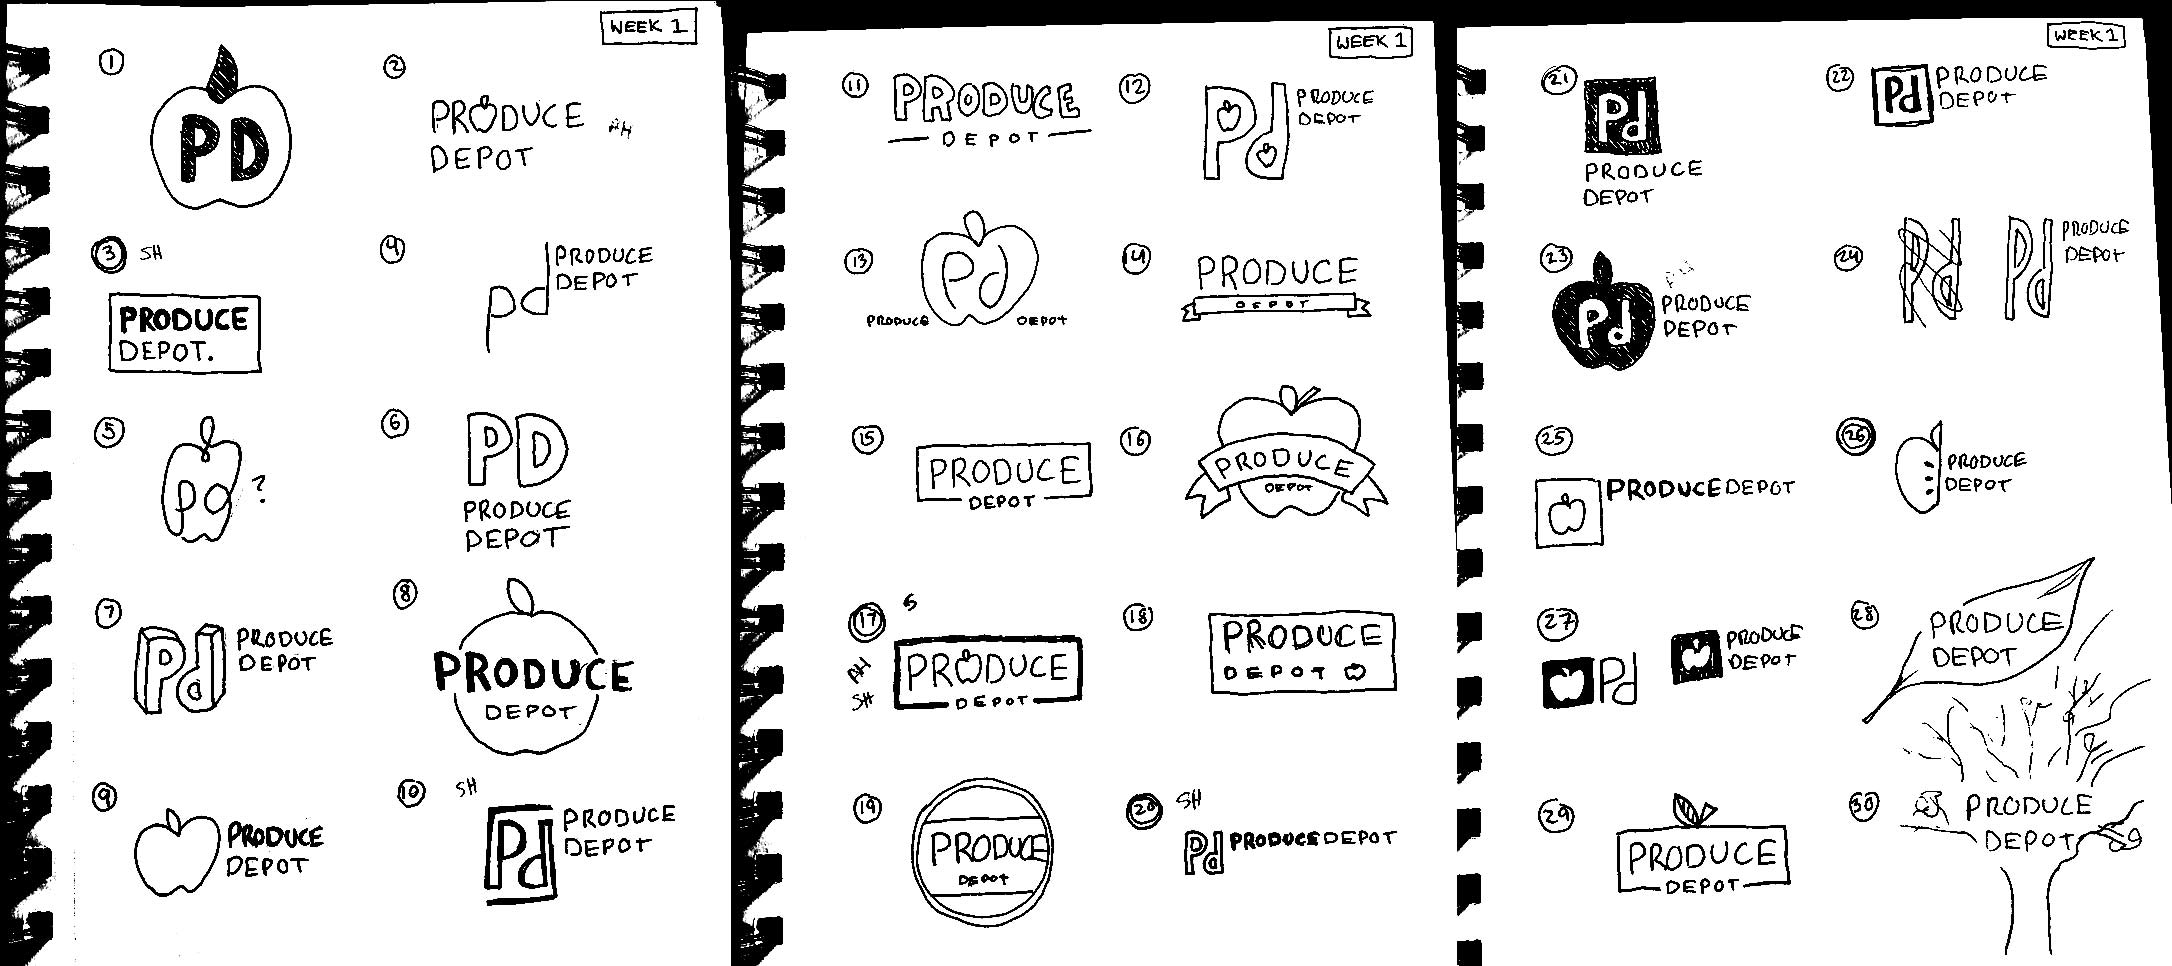
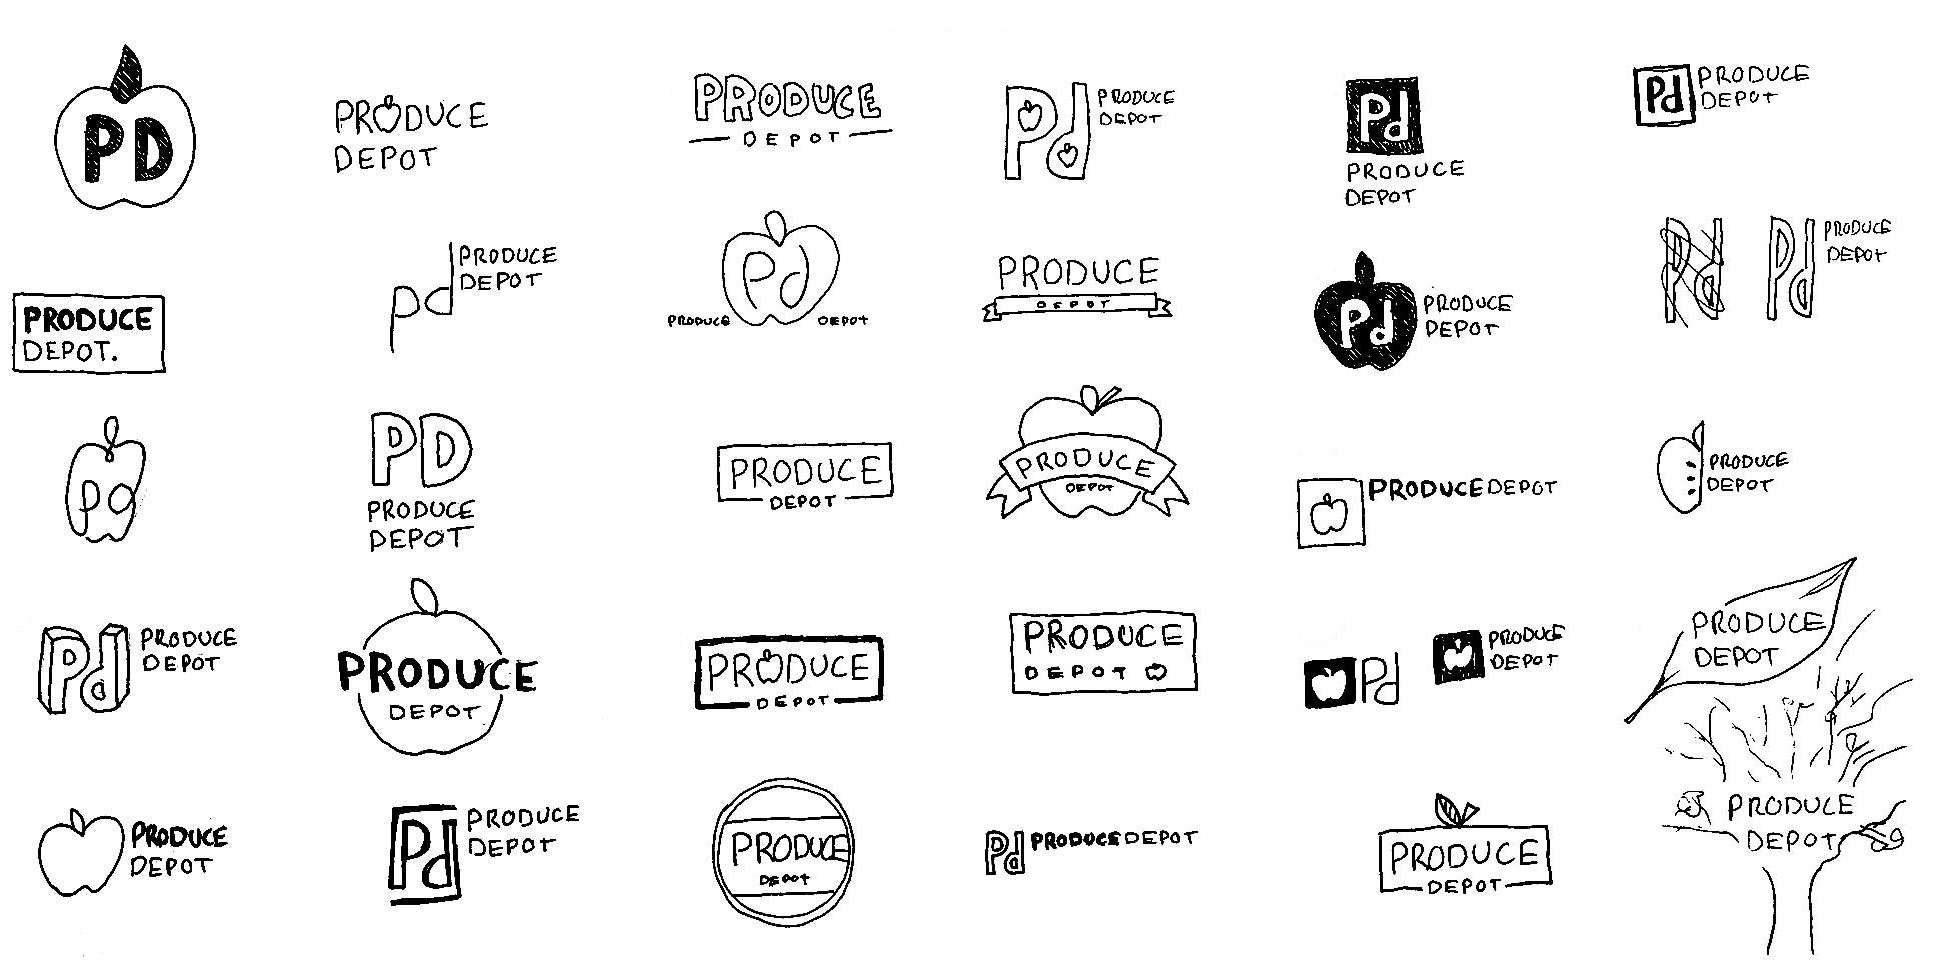
Add mockups and sketches
Former-commit-id: 626dba328bd869aaf4cfc1bdebf96d04ed4d9e1b

diff --git a/first.html b/first.html
@@ -3,28 +3,41 @@ layout: default
 ---
   <title>Esther Johnson · Produce Depot</title>
 
-    <div class="process pad-t wrapper ">
+    <div class="process pad-t wrapper">
+
+      <div class="unit xs-1 s-1 m-1 l-1 xl-1">
+        <img class="img-flex gutter-1-2 pad-b-1-2" src="{{site.baseurl}}/images/produce-depot/pd-brand-banner.jpg" alt="">
+      </div>
+
+      <div class="unit xs-1 s-1 m-1-2 l-1-2 xl-1-2 pad-t-2 push gutter-1-2">
+        <h1 class="push-0">Produce Depot</h1>
+        <h5 class="italic push-1-2">Branding, Print</h5>
+        <p class="micro">This rebrand project includes a logo and a brand guideline. I’ve gone over proper colours, fonts, letterheads, layouts, alternate logos, spacing, logo treatment, what not to do, and much more. This brand guideline was a booklet with a strong layout that shows my type, layout, and print skills.</p>
+      </div>
+
+      <h2 class="push-0 gutter-1-2">Sketches</h2>
+
+      <img class="img-flex push-0 gutter-1-2" src="{{site.baseurl}}/images/produce-depot/pd-sketches1.jpg" alt="">
+      <img class="img-flex push-2 gutter-1-2" src="{{site.baseurl}}/images/produce-depot/pd-sketches2.jpg" alt="">
+
+      <h2 class="gutter-1-2 push-0">Final Product</h2>
+
       <div class="grid">
-        <div class="unit xs-1 s-1 m-1 l-1 xl-1">
-          <img class="img-flex gutter-1-2 pad-b-1-2" src="{{site.baseurl}}/images/produce-depot/pd-brand-banner.jpg" alt="">
-        </div>
+
         <div class="unit xs-1 s-1 m-1-2 l-1-2 xl-1-2">
           <img class="img-flex pad-t-1-2 island-1-2" src="{{site.baseurl}}/images/produce-depot/bag.jpg" alt="">
         </div>
         <div class="unit xs-1 s-1 m-1-2 l-1-2 xl-1-2">
           <img class="img-flex pad-t-1-2 island-1-2" src="{{site.baseurl}}/images/produce-depot/apron.jpg" alt="">
         </div>
-
-        <div class="unit xs-1 s-1 m-1-2 l-1-2 xl-1-2 pad-t-2 push gutter-1-2">
-          <h1 class="push-0">Produce Depot</h1>
-          <h5 class="italic">Branding, Print</h5>
-          <p class="micro">This rebrand project includes a logo and a brand guideline. I’ve gone over proper colours, fonts, letterheads, layouts, alternate logos, spacing, logo treatment, what not to do, and much more. This brand guideline was a booklet with a strong layout that shows my type, layout, and print skills.</p>
+        <div class="unit xs-1 s-1 m-1 l-1 xl-1">
+          <img class="img-flex gutter-1-2 pad-b" src="{{site.baseurl}}/images/produce-depot/pd-logo.jpg" alt="">
         </div>
+
+
 
       </div>
 
-      <img class="img-flex pad-t-1-2 push gutter-1-2" src="{{site.baseurl}}/images/produce-depot/pd-sketches1.jpg" alt="">
-      <img class="img-flex pad-t-1-2 push gutter-1-2" src="{{site.baseurl}}/images/produce-depot/pd-sketches2.jpg" alt="">
 
 
 

diff --git a/third.html b/third.html
@@ -3,12 +3,25 @@ layout: default
 ---
 <title>Esther Johnson · World Animal Protection</title>
 
-<div class="process wrapper gutter-1-2">
+<div class="process wrapper pad-t ">
 
-  <div class="unit xs-1 s-1 m-1-2 l-1-2 xl-1-2 pad-t push">
+  <img class="img-flex gutter-1-2 pad-b-1-2" src="{{site.baseurl}}/images/wap/front-cover.jpg" alt="">
+
+  <div class="gutter-1-2 unit xs-1 s-1 m-1-2 l-1-2 xl-1-2 pad-t">
     <h1 class="push-0">World Animal Protection</h1>
-    <h5 class="italic">Layout, print</h5>
-    <p class="micro">This repackaging project includes a logo and a brand guideline. I’ve gone over proper colours, fonts, letterheads, layouts, alternate logos, spacing, logo treatment, what not to do, and much more. This brand guideline was a booklet with a strong layout that shows my type, layout, and print skills.</p>
+    <h5 class="italic push-1-2">Layout, print</h5>
+    <p class="micro push">This repackaging project includes a logo and a brand guideline. I’ve gone over proper colours, fonts, letterheads, layouts, alternate logos, spacing, logo treatment, what not to do, and much more. This brand guideline was a booklet with a strong layout that shows my type, layout, and print skills.</p>
   </div>
+
+  <h2 class="push-0 pad-t gutter-1-2">Sketches</h2>
+  <img class="img-flex gutter-1-2 pad-b-2" src="{{site.baseurl}}/images/wap/sketches.jpg" alt="">
+
+  <h2 class="gutter-1-2 push pad-t">Final Product</h2>
+  <img class="img-flex gutter-1-2 pad-b" src="{{site.baseurl}}/images/wap/sheeps-long.jpg" alt="">
+  <img class="img-flex gutter-1-2 pad-b" src="{{site.baseurl}}/images/wap/flam.jpg" alt="">
+  <img class="img-flex gutter-1-2 pad-b" src="{{site.baseurl}}/images/wap/infographic2.jpg" alt="">
+  <img class="img-flex gutter-1-2 pad-b" src="{{site.baseurl}}/images/wap/chart.jpg" alt="">
+
+
 
 </div>

diff --git a/second.html b/second.html
@@ -3,11 +3,13 @@ layout: default
 ---
 <title>Esther Johnson · Sparkling Ice</title>
 
-<div class="process wrapper gutter-1-2">
-  <img class="img-flex pad-t" src="{{site.baseurl}}/images/ice/3flavours.jpg" alt="">
-  <div class="unit xs-1 s-1 m-1-2 l-1-2 xl-1-2 pad-t-2 push">
+<div class="process pad-t wrapper gutter-1-2">
+  <img class="img-flex" src="{{site.baseurl}}/images/ice/3flavours.jpg" alt="">
+  <div class="pad-t-2 push">
     <h1 class="push-0">Sparkling Ice</h1>
-    <h5 class="italic">Packaging</h5>
+    <h5 class="italic push-1-2">Packaging</h5>
     <p class="micro">This repackaging project includes a logo and a brand guideline. I’ve gone over proper colours, fonts, letterheads, layouts, alternate logos, spacing, logo treatment, what not to do, and much more. This brand guideline was a booklet with a strong layout that shows my type, layout, and print skills.</p>
+    <img class="img-flex" src="{{site.baseurl}}/images/ice/sketch1.jpg" alt="">
   </div>
+
 </div>
